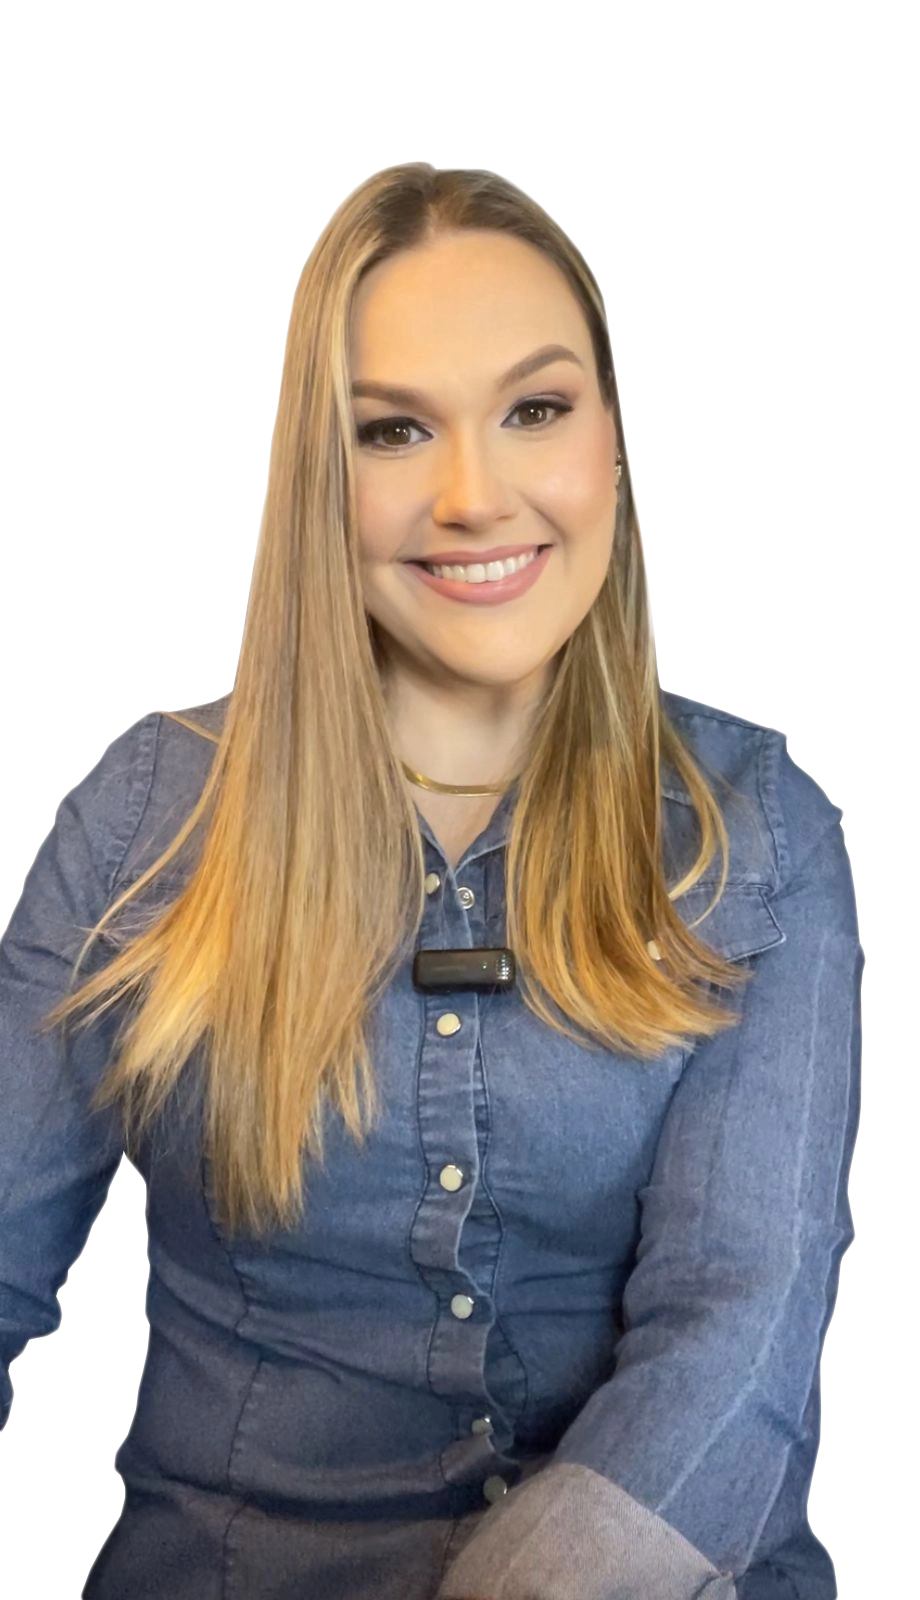
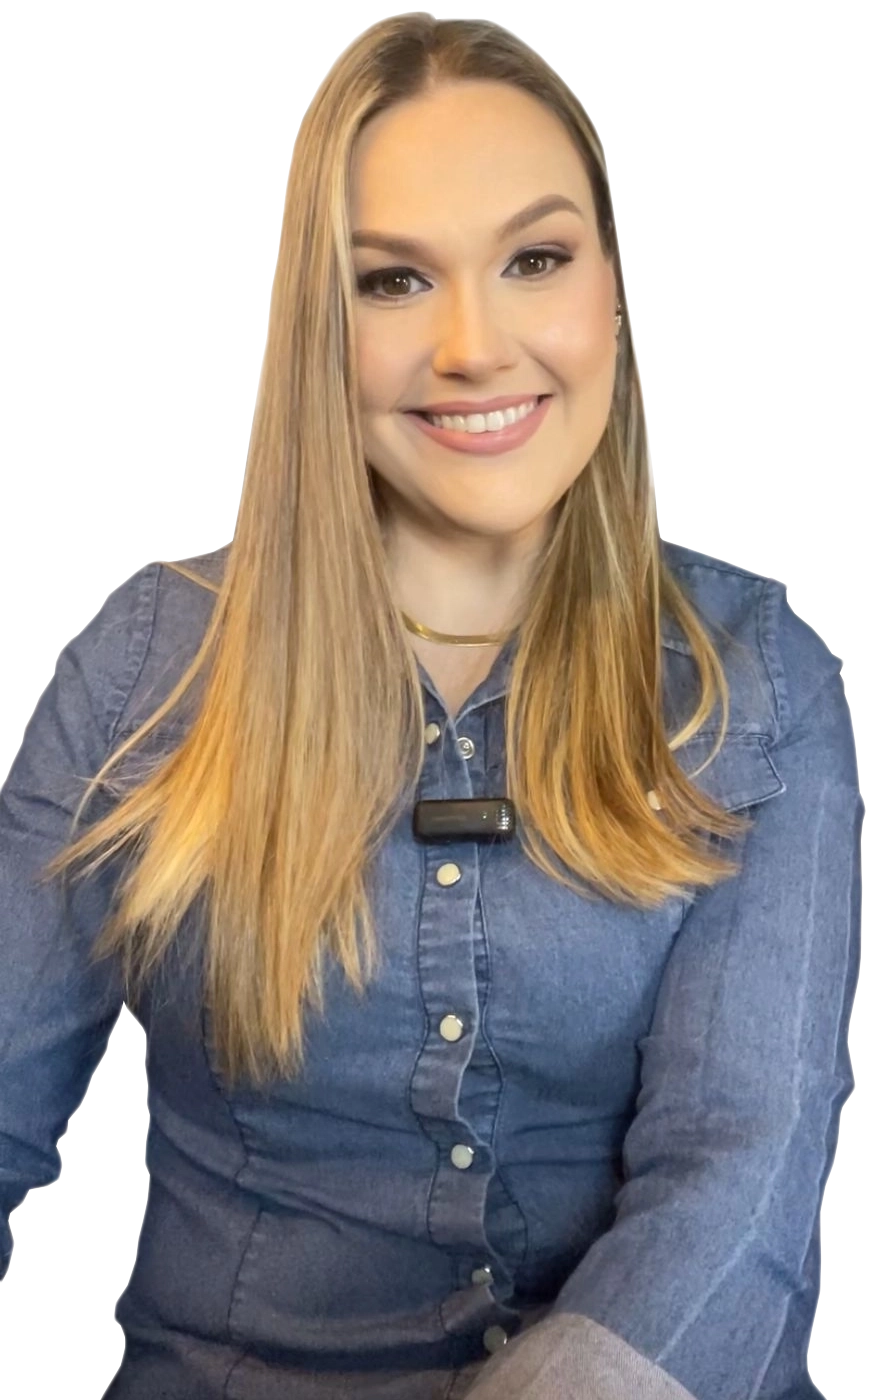
add: section about

diff --git a/src/components/about/about.tsx b/src/components/about/about.tsx
@@ -1,0 +1,25 @@
+import AboutPhoto from './aboutPhoto';
+
+export default function About() {
+  return (
+    <section className="mx-auto flex w-2xl space-x-4 py-12 px-6">
+      <AboutPhoto />
+      <article className="space-y-2 flex flex-col justify-center items-center">
+        <h2 className="text-3xl font-bold">Sobre Mim</h2>
+        <p>
+          Iniciei minha jornada em 2013, para ajudar a organizar algumas coisas
+          no consultório do meu namorado, que hoje é meu marido e pai do nosso
+          filho Heitor.
+        </p>
+        <p>
+          A Organização deu tão certo que tranquei a faculdade de engenharia de
+          produção na UTFPR e passei a me dedicar ao consultório.
+        </p>
+        <p>
+          Hoje eu ajudo dentistas a transformarem seus consultórios de dentro
+          para fora
+        </p>
+      </article>
+    </section>
+  );
+}

diff --git a/src/app/page.tsx b/src/app/page.tsx
@@ -1,3 +1,4 @@
+import About from '@/components/about/about';
 import Header from '@/components/header/header';
 import Hero from '@/components/hero/hero';
 import { AuroraBackground } from '@/components/ui/shadcn-io/aurora-background';
@@ -9,6 +10,7 @@ export default function Home() {
         <Header />
         <Hero />
       </AuroraBackground>
+      <About />
     </main>
   );
 }

diff --git a/src/components/hero/hero.tsx b/src/components/hero/hero.tsx
@@ -4,7 +4,7 @@ import Self from './self';
 
 export default function Hero() {
   return (
-    <section className="text-white relative overflow-hidden w-full">
+    <section className="text-white relative overflow-hidden w-full shadow-md">
       <article className="container mx-auto max-w-7xl py-12 px-6 grid grid-cols-1 gap-14 lg:grid-cols-3">
         <Title />
         <Self />

diff --git a/src/components/about/aboutPhoto.tsx b/src/components/about/aboutPhoto.tsx
@@ -1,0 +1,15 @@
+import Image from 'next/image';
+
+export default function AboutPhoto() {
+  return (
+    <div className="bg-[#e6c67c] rounded-md flex justify-end shadow-md">
+      <Image
+        className="shadow-md"
+        src="/photo003.webp"
+        alt="PhotoAbout"
+        width={450}
+        height={750}
+      />
+    </div>
+  );
+}
